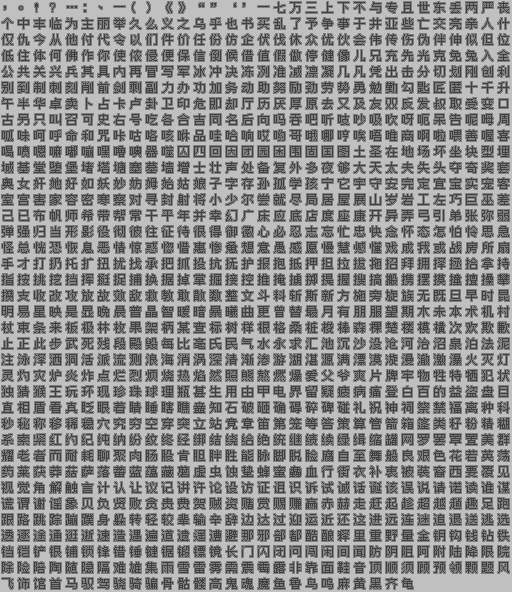
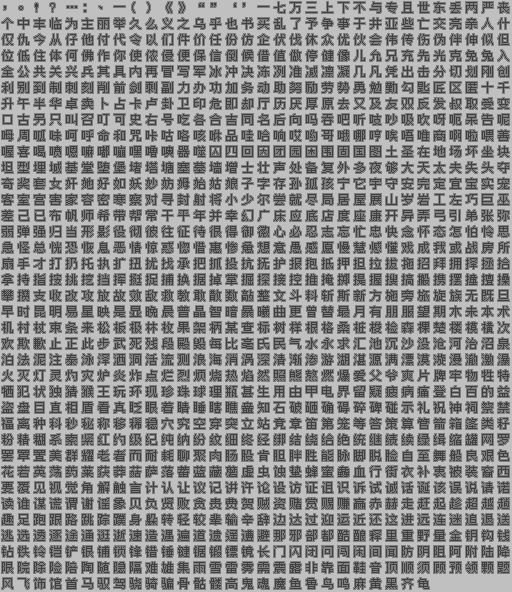
修改字库

Changed region(s): [[0.0, 0.0608, 1.0, 1.0]]

diff --git a/assets/text_compression.py b/assets/text_compression.py
@@ -398,7 +398,7 @@ class LangCN(LangUS):
   ]
   # 1118 unique CJK characters from dialogue_cn.txt, sorted by Unicode codepoint
   cjk_chars = list(
-    '一七万三上下不与专且世东丢两严丧个中丰临为主丽举久么义之乌乎也书买乱了予争事于井亚些亡交亮亲人什仅仇今从他付代令以们件价任份仿企伏伐休众优伙会伟传伤伪伴伸似但位低住体何佛作你使侬侵便保信倒候借值假做停健像儿兄充先光克免兔入全公共关兴兵其具内再冒写军冰冲决冻冽准减凛凝几凡凭出击分切划刚创利别到制刺刻削前剑剩副力办功加务动助努励劲劳势勇勉勤勾匙匠匿十千升午半华卓卖卜占卡卢卦卫印危即却厅历厌厚原去又及友双反发叔取受变口古另只叫召可史右号吃各合吉同名后向吗吞吧听吱吵吸吹呀呃呆告呢呣周呱味呵呼命和咒咔咕咯咳咻品哇哈响哎哟哥哦哪哼唉唔唯商啊啦喂善喔喜喝喷嗯嘛嘟嘣嘿噜噢器噬囚四回因团园困围固国图土圣在地场坏坐块型埋城基堂堕堡堵塔塘塞墓墙增士壮声处备复外多夜够大天太夫失头夺奇奖套奥女奸她好如妖妙妨姆始姑娘子字存孙孤学孩宁它宇守安完定宜宝实宠客室宫害家容密寒察对寻封射将小少尔尝就尽局居屋展山岁岩工左巧巨巫差己已布帆师希带帮常干平年并幸幻广床应底店度座康开异弄弓引弟张弥弱弹强归当形影役彻彼往征待很得御徽心必忍志忘忙忠快念怀态怎怕怜思急怪总恍恐恢息恶情惊惑惚惜惠惨惫想意愚感愿慢慧憾懂戏成我或战房所扇手才打扔托扩扭扰找承把抓投抗抚护报抱抵押担拉拔拖招拜拥择拯拾拿持指按挑挖挡挥挺捉捕换据掉掌掘接控推掩掳掷提握搜搞搬携摆摸撞擅操攀攒支收改攻放故效敌救教敢散数整文斗料斩斯新方施旁旋族无既旦早时昆明易星映是显晚晨普晶智暖暗暴曦曲更曾替最月有朋服望期木未本术机村杖束条来板极林枚果架柄某查标树样根格桑桩梭棒森棵楚楼模横次欢欺歉止正此步武死残段殿毁每比毫氏民气水永求汇池沉沙没沧河治沼泉泊法泥注泳泽洒洞活派流测浪海消涡深清渐渗游湖湛源满漂漠漩漫澈激瀑火灭灯灵灼灾炉炎炸点烂烈烦烧热焰然照熊熬燃爆爱父爷爽片牌牢物牲特牺犯状独猜猴王玩环现珍珠球理瓶甚生用由甲电界留疑疲病痛登白百的益盗盘目直相盾看真眨眼着睛睡瞎瞧矗知石破砸确碍碎碑碰礼祝神祠祭禁福离种科秒秘称移稀稳穴究穷空穿突立站竟章笛第笼等答策算管箭箱篷类籽粉精糊系索紧红约纪纯纳纷纹终经绑结绕给绝统继绩续绿缉缩罐网罗罢罩置美群耀老者而耐耗聊聚肉肠股肯胆胖胜能脉脚脱脸腐自至舞般良艰色花若英荡药莱获莽菇萨落蓄蓝蕴藏蘑虚虫蚀蛰蜂蜜蠢血行街衣补衷被装裔西要覆见视觉角解触言计认让议记讲许论设访证诅识诉试诚话诞该误说请诺读谁谋谎谓谢谣象贝负贤败贪贵费贺贼资赌赏赐赚赢赤赫走赶起趁超越趟趣足跑跟路跳踪蹦蹼身躲转轻较辈输辛辞边达过迎运近还这进远连迷追退送逃选透逐途通逛逝速造遇遍道遗遥遭避那邪部都酷酿释里重野量金钥钩钱钻铁铛铠铲银铺锁锋错锤键锯锻镖镜长门闪闭问闯闲间闻防阴阻阿附陆降限院除险陪陶随隐隔难雄集雨雪雷雾需震霉露非靠面鞋音顶顺须顾预领颗题风飞饰馆首马驭驾骁骑骗骨骷髅高鬼魂魔鱼鲁鸟鸣麻黄黑齐龟'
+    '一七万三上下不与专且世东丢两严丧个中丰临为主丽举久么义之乌乎也书买乱了予争事于井亚些亡交亮亲人什仅仇今从仔他付代令以们件价任份仿企伏伐休众优伙会伟传伤伪伴伸似但位低住体何佛作你使侬侵便保信倒候借值做停健像儿允兄充先光克免兔入全公共关兴兵其具内再冒写军冰冲决冻冽准减凛凝几凡凭出击分切划刚创利别到制刺刻削前剑剩副力办功加务动助努励劳势勇勉勤勾匙匠区匿十千升午半华卓卖卜占卡卢卦卫印危即却厅历厌厚原去又及友双反发叔取受变口古另只叫召叮可史右号吃各合吉同名后向吗吞吧听吱吵吸吹呀呃呆告呢呣周呱味呵呼命和咒咔咕咯咳咻品哇哈响哎哟哥哦哪哼唉唔唯商啊啦喂善喔喜喝喷嗯嘛嘟嘣嘿噜噢器噬囚四回因团园困围固国图土圣在地场坏坐块坦型埋城基堂堕堡堵塔塘塞墓墙增士壮声处备复外多夜够大天太夫失头夺奇奖套女奸她好如妖妙妨姆始姑娘子字存孙孤孩宁它宇守安完定宜宝实宠客室宫害家容密寒察对寻封射将小少尔尝就尽局居屋展山岁岩工左巧巨巫差己已布帆师希带帮常干平年并幸幻广床应底店度座康开异弄弓引弟张弥弱弹强归当形影役彻彼往征待很得御徽心必忍志忘忙忠快念怀态怎怕怜思急怪总恍恐恢息恶情惊惑惚惜惠惨惫想意愚感愿慢慧憾懂戏成我或战房所扇手才打扔托执扩扭扰找承把抓投抗抚护报抱抵押担拉拔拖招拜拥择拯拾拿持指按挑挖挡挥挺捉捕换据掉掌掘探接控推掩掷提握搜搞搬携摆撞擅操攀攒支收改攻放故效敌救教敢散数敲整文斗料斩斯新方施旁旅旋族无既旦早时昆明易星映是显晚晨普晶智暗暴曦曲更曾替最月有朋服望期木未本术机村杖束条来松板极林枚果架柄某查标树样根格桑桩梭检森棵楚楼模横次欢欺歉止正此步武死残段殿毁每比毫氏民气水永求汇池沉沙没沧河治沼泉泊法泥注泰泳泽洒洞活流测浪海消涡深清渐渗游湖湛源满漂漠漩漫澈激瀑火灭灯灵灼灾炉炎炸点烂烈烦烧热焰然照熊熬燃爆爱父爷爽片牌牢物牲特牺犯状独猜猴王玩环现珍珠球理瓶甚生用由甲电界留疑疲病痛登白百的益盗盘目直相盾看真眨眼着睛睡瞎瞧矗知石破砸确碍碎碑碰示礼祝神祠祭禁福离种科秒秘称移稀稳穴究空穿突立站竟章笛第笼等答策算管箭箱篷类籽粉精糊系索紧红约级纪纯纳纷纹细终经绑结绕给绝统继绩续绿缉缩罐网罗罢罩置美群耀老者而耐耗聊聚肉肠股肯胆胖胜能脉脚脱脸自至舞般良艰色花若英荡药莱获莽菇萨落蓄蓝藏蘑虚虫蚀蛰蜂蜜蠢血行街衣补衷被装裔西要覆见视觉角解触言计认让议记讲许论设访证诅识诉试诚话诞该误说请诺读谁谋谎谓谢谣象贝负贤败贪贵费贺贼资赌赏赐赚赢赤赫走赶起趁超越趟趣足跑跟路跳踪蹼身躲转轻较辈输辛辞边达过迎运近还这进远连迷追退送逃选透逐途通逛逝速造遇遍道遗遥遭避那邪部都酷酿释里重野量金钥钩钱钻铁铃铠铲银铺锁锋错锤键锯锻镖镜长门闪闭问闯闲间闻防阴阻阿附陆降限院除险陪陶随隐隔难雄集雨雪雷雾需震露非靠面鞋音顶顺须顾预领颗题风飞饰馆首马驭驾骁骑骗骨骷髅高鬼魂魔鱼鲁鸟鸣麻黄黑齐龟'
   )
   dictionary = []
   rom_addrs = [0x9c8000, 0x8edf40]
@@ -407,7 +407,7 @@ class LangCN(LangUS):
 
   def __init__(self):
     assert len(self.alphabet) == 111, f'Expected 111, got {len(self.alphabet)}'
-    assert len(self.cjk_chars) == 1162
+    assert len(self.cjk_chars) == 1163
 
 kLanguages = {
   'us' : LangUS(),

diff --git a/tools/generate_font_cn.py b/tools/generate_font_cn.py
@@ -21,7 +21,7 @@ from PIL import Image, ImageFont, ImageDraw
 
 # The sorted CJK characters from dialogue_cn.txt
 CJK_CHARS = list(
-  '一七万三上下不与专且世东丢两严丧个中丰临为主丽举久么义之乌乎也书买乱了予争事于井亚些亡交亮亲人什仅仇今从他付代令以们件价任份仿企伏伐休众优伙会伟传伤伪伴伸似但位低住体何佛作你使侬侵便保信倒候借值假做停健像儿兄充先光克免兔入全公共关兴兵其具内再冒写军冰冲决冻冽准减凛凝几凡凭出击分切划刚创利别到制刺刻削前剑剩副力办功加务动助努励劲劳势勇勉勤勾匙匠匿十千升午半华卓卖卜占卡卢卦卫印危即却厅历厌厚原去又及友双反发叔取受变口古另只叫召可史右号吃各合吉同名后向吗吞吧听吱吵吸吹呀呃呆告呢呣周呱味呵呼命和咒咔咕咯咳咻品哇哈响哎哟哥哦哪哼唉唔唯商啊啦喂善喔喜喝喷嗯嘛嘟嘣嘿噜噢器噬囚四回因团园困围固国图土圣在地场坏坐块型埋城基堂堕堡堵塔塘塞墓墙增士壮声处备复外多夜够大天太夫失头夺奇奖套奥女奸她好如妖妙妨姆始姑娘子字存孙孤学孩宁它宇守安完定宜宝实宠客室宫害家容密寒察对寻封射将小少尔尝就尽局居屋展山岁岩工左巧巨巫差己已布帆师希带帮常干平年并幸幻广床应底店度座康开异弄弓引弟张弥弱弹强归当形影役彻彼往征待很得御徽心必忍志忘忙忠快念怀态怎怕怜思急怪总恍恐恢息恶情惊惑惚惜惠惨惫想意愚感愿慢慧憾懂戏成我或战房所扇手才打扔托扩扭扰找承把抓投抗抚护报抱抵押担拉拔拖招拜拥择拯拾拿持指按挑挖挡挥挺捉捕换据掉掌掘接控推掩掳掷提握搜搞搬携摆摸撞擅操攀攒支收改攻放故效敌救教敢散数整文斗料斩斯新方施旁旋族无既旦早时昆明易星映是显晚晨普晶智暖暗暴曦曲更曾替最月有朋服望期木未本术机村杖束条来板极林枚果架柄某查标树样根格桑桩梭棒森棵楚楼模横次欢欺歉止正此步武死残段殿毁每比毫氏民气水永求汇池沉沙没沧河治沼泉泊法泥注泳泽洒洞活派流测浪海消涡深清渐渗游湖湛源满漂漠漩漫澈激瀑火灭灯灵灼灾炉炎炸点烂烈烦烧热焰然照熊熬燃爆爱父爷爽片牌牢物牲特牺犯状独猜猴王玩环现珍珠球理瓶甚生用由甲电界留疑疲病痛登白百的益盗盘目直相盾看真眨眼着睛睡瞎瞧矗知石破砸确碍碎碑碰礼祝神祠祭禁福离种科秒秘称移稀稳穴究穷空穿突立站竟章笛第笼等答策算管箭箱篷类籽粉精糊系索紧红约纪纯纳纷纹终经绑结绕给绝统继绩续绿缉缩罐网罗罢罩置美群耀老者而耐耗聊聚肉肠股肯胆胖胜能脉脚脱脸腐自至舞般良艰色花若英荡药莱获莽菇萨落蓄蓝蕴藏蘑虚虫蚀蛰蜂蜜蠢血行街衣补衷被装裔西要覆见视觉角解触言计认让议记讲许论设访证诅识诉试诚话诞该误说请诺读谁谋谎谓谢谣象贝负贤败贪贵费贺贼资赌赏赐赚赢赤赫走赶起趁超越趟趣足跑跟路跳踪蹦蹼身躲转轻较辈输辛辞边达过迎运近还这进远连迷追退送逃选透逐途通逛逝速造遇遍道遗遥遭避那邪部都酷酿释里重野量金钥钩钱钻铁铛铠铲银铺锁锋错锤键锯锻镖镜长门闪闭问闯闲间闻防阴阻阿附陆降限院除险陪陶随隐隔难雄集雨雪雷雾需震霉露非靠面鞋音顶顺须顾预领颗题风飞饰馆首马驭驾骁骑骗骨骷髅高鬼魂魔鱼鲁鸟鸣麻黄黑齐龟'
+  '一七万三上下不与专且世东丢两严丧个中丰临为主丽举久么义之乌乎也书买乱了予争事于井亚些亡交亮亲人什仅仇今从仔他付代令以们件价任份仿企伏伐休众优伙会伟传伤伪伴伸似但位低住体何佛作你使侬侵便保信倒候借值做停健像儿允兄充先光克免兔入全公共关兴兵其具内再冒写军冰冲决冻冽准减凛凝几凡凭出击分切划刚创利别到制刺刻削前剑剩副力办功加务动助努励劳势勇勉勤勾匙匠区匿十千升午半华卓卖卜占卡卢卦卫印危即却厅历厌厚原去又及友双反发叔取受变口古另只叫召叮可史右号吃各合吉同名后向吗吞吧听吱吵吸吹呀呃呆告呢呣周呱味呵呼命和咒咔咕咯咳咻品哇哈响哎哟哥哦哪哼唉唔唯商啊啦喂善喔喜喝喷嗯嘛嘟嘣嘿噜噢器噬囚四回因团园困围固国图土圣在地场坏坐块坦型埋城基堂堕堡堵塔塘塞墓墙增士壮声处备复外多夜够大天太夫失头夺奇奖套女奸她好如妖妙妨姆始姑娘子字存孙孤孩宁它宇守安完定宜宝实宠客室宫害家容密寒察对寻封射将小少尔尝就尽局居屋展山岁岩工左巧巨巫差己已布帆师希带帮常干平年并幸幻广床应底店度座康开异弄弓引弟张弥弱弹强归当形影役彻彼往征待很得御徽心必忍志忘忙忠快念怀态怎怕怜思急怪总恍恐恢息恶情惊惑惚惜惠惨惫想意愚感愿慢慧憾懂戏成我或战房所扇手才打扔托执扩扭扰找承把抓投抗抚护报抱抵押担拉拔拖招拜拥择拯拾拿持指按挑挖挡挥挺捉捕换据掉掌掘探接控推掩掷提握搜搞搬携摆撞擅操攀攒支收改攻放故效敌救教敢散数敲整文斗料斩斯新方施旁旅旋族无既旦早时昆明易星映是显晚晨普晶智暗暴曦曲更曾替最月有朋服望期木未本术机村杖束条来松板极林枚果架柄某查标树样根格桑桩梭检森棵楚楼模横次欢欺歉止正此步武死残段殿毁每比毫氏民气水永求汇池沉沙没沧河治沼泉泊法泥注泰泳泽洒洞活流测浪海消涡深清渐渗游湖湛源满漂漠漩漫澈激瀑火灭灯灵灼灾炉炎炸点烂烈烦烧热焰然照熊熬燃爆爱父爷爽片牌牢物牲特牺犯状独猜猴王玩环现珍珠球理瓶甚生用由甲电界留疑疲病痛登白百的益盗盘目直相盾看真眨眼着睛睡瞎瞧矗知石破砸确碍碎碑碰示礼祝神祠祭禁福离种科秒秘称移稀稳穴究空穿突立站竟章笛第笼等答策算管箭箱篷类籽粉精糊系索紧红约级纪纯纳纷纹细终经绑结绕给绝统继绩续绿缉缩罐网罗罢罩置美群耀老者而耐耗聊聚肉肠股肯胆胖胜能脉脚脱脸自至舞般良艰色花若英荡药莱获莽菇萨落蓄蓝藏蘑虚虫蚀蛰蜂蜜蠢血行街衣补衷被装裔西要覆见视觉角解触言计认让议记讲许论设访证诅识诉试诚话诞该误说请诺读谁谋谎谓谢谣象贝负贤败贪贵费贺贼资赌赏赐赚赢赤赫走赶起趁超越趟趣足跑跟路跳踪蹼身躲转轻较辈输辛辞边达过迎运近还这进远连迷追退送逃选透逐途通逛逝速造遇遍道遗遥遭避那邪部都酷酿释里重野量金钥钩钱钻铁铃铠铲银铺锁锋错锤键锯锻镖镜长门闪闭问闯闲间闻防阴阻阿附陆降限院除险陪陶随隐隔难雄集雨雪雷雾需震露非靠面鞋音顶顺须顾预领颗题风飞饰馆首马驭驾骁骑骗骨骷髅高鬼魂魔鱼鲁鸟鸣麻黄黑齐龟'
 )
 
 # CN punctuation characters (positions 96-111 in the alphabet)

diff --git a/assets/sprite_sheets.py b/assets/sprite_sheets.py
@@ -290,7 +290,7 @@ def encode_font_cn():
 
   # Now encode CJK characters (1118 chars) as 16x16 (4 tiles each)
   cjk_font = bytearray()
-  for i in range(1162):
+  for i in range(1163):
     img_idx = 16 + i  # first 16 are punctuation in font_cn.png
     char_col = img_idx % 32
     char_row = img_idx // 32
